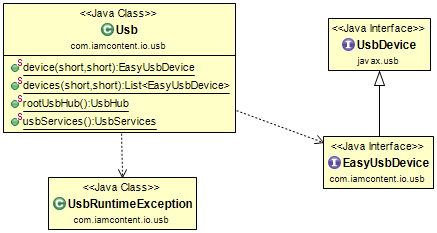
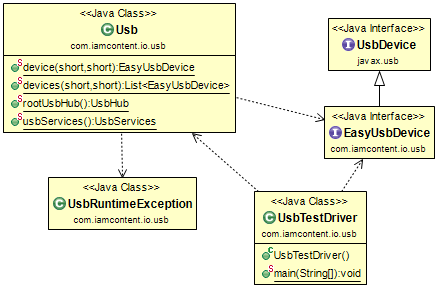
Add markdown doc for usb package.

diff --git a/public-java/iamcontent-io/src/main/site/md/usb.md b/public-java/iamcontent-io/src/main/site/md/usb.md
@@ -1,0 +1,16 @@
+#Java package: _usb_
+
+Provides a simple facade over the [javax.usb](http://sourceforge.net/projects/javax-usb/) API.
+
+![Class Diagram](../uml/com.iamcontent.io.usb.png)
+
+Configured in [src/main/resources/javax.usb.properties](../../resources/javax.usb.properties) to use the [usb4java](http://usb4java.org/) implementation of [javax.usb](http://sourceforge.net/projects/javax-usb/).
+
+The most common use case is to find USB devices from the root USB hub by invoking the _Usb.device()_ or _Usb.devices()_ methods:
+
+      List<EasyUsbDevice> devices = Usb.devices(vendorId, productId);
+      EasyUsbDevice oneDevice = Usb.device(vendorId, productId);
+
+For testing, this can be done from the command line by running the _UsbTestDriver_ class and providing the vendor id and product id as command line arguments.
+
+The returned objects implement the _EasyUsbDevice_ interface, which extends the standard _java.usb.UsbDevice_ interface but throws _UsbRuntimeExceptions_ instead of checked exceptions.

diff --git a/public-java/iamcontent-io/README.md b/public-java/iamcontent-io/README.md
@@ -6,8 +6,8 @@ under the terms of the GNU GENERAL PUBLIC LICENSE Version 2.
 
 This jar contains two main packages of interest:
 
-* the [usb](usb.md) package 
-* the [usb.topology](usb.topology.md) package
+* the [usb](src/main/site/md/usb.md) package 
+* the [usb.topology](src/main/site/md/usb.topology.md) package
 
 These packages provide a usable facade over the [javax.usb](http://sourceforge.net/projects/javax-usb/) API. This library is configured to use the [usb4java](http://usb4java.org/) implementation of [javax.usb](http://sourceforge.net/projects/javax-usb/).
 
